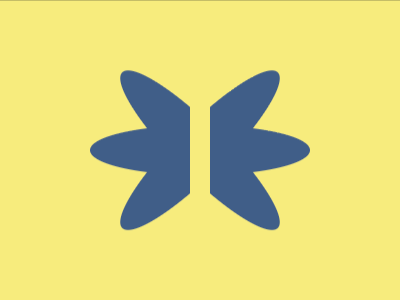
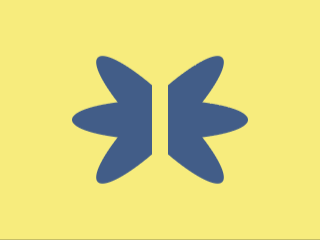
Score: 676.18, Characters: 174 (100.00% match) - CSSHub

diff --git a/Daily Targets/2026-08-03/README.md b/Daily Targets/2026-08-03/README.md
@@ -22,29 +22,5 @@ Challenge: <https://cssbattle.dev/play/K5tl2pHRpNXPbByrJmVW>
 ## Code
 
 ```html
-<dt><dl><p><style>&{margin:40 175;background:#f7ec7d;*{background:#415e88;border-radius:var(--a,50%);margin:0;height:100%;offset:ray(45deg);p{background:#f7ec7d;--a:;width:5vw
-```
-
-## Prettified code
-
-```html
-<dt><dl><p>
-<style>
-& {
-  margin: 40 175;
-  background: #f7ec7d;
-  * {
-    background: #415e88;
-    border-radius: var(--a, 50%);
-    margin: 0;
-    height: 100%;
-    offset: ray(45deg);
-    p {
-      background: #f7ec7d;
-      --a:;
-      width: 5vw;
-    }
-  }
-}
-</style>
+<dt><dl><p><style>&{margin:40 175;background:#f7ec7d;*{background:#415e88;border-radius:var(--a,50%);margin:0;height:100%;p{background:#f7ec7d;--a:;width:5vw}offset:ray(45deg
 ```

diff --git a/README.md b/README.md
@@ -89,12 +89,12 @@
 </li>
 <li>
 <details>
-<summary><strong>August 2026 (3/3+)</strong></summary>
+<summary><strong>August 2026 (3/4+)</strong></summary>
 
 <ul>
 <li><a href="./Daily%20Targets/2026-08-01/">Aug 1, 2026</a> (150 Characters)</li>
 <li><a href="./Daily%20Targets/2026-08-02/">Aug 2, 2026</a> (153 Characters)</li>
-<li><a href="./Daily%20Targets/2026-08-03/">Aug 3, 2026</a> (175 Characters)</li>
+<li><a href="./Daily%20Targets/2026-08-03/">Aug 3, 2026</a> (174 Characters)</li>
 </ul>
 </details>
 </li>
